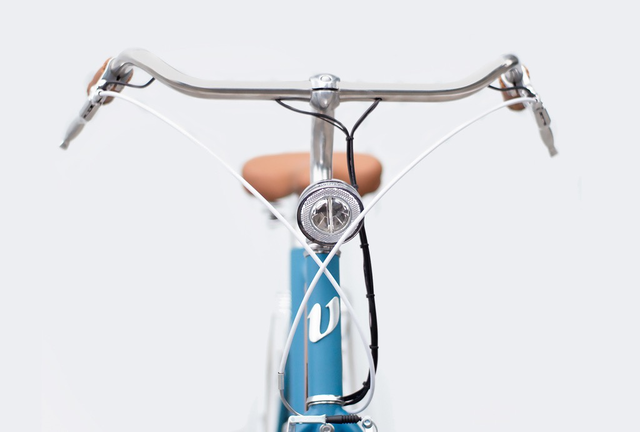
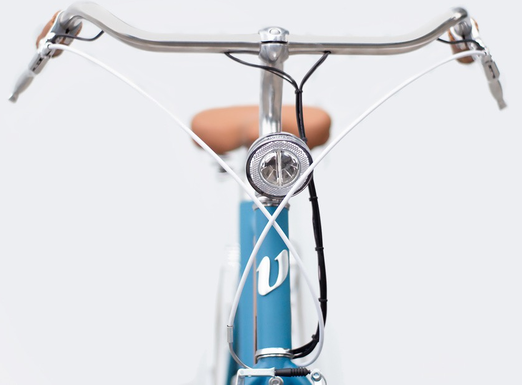
Better image sizing on home highlight.

Changed region(s): [[0.0, 0.0, 0.9808, 1.0]]

diff --git a/components/home/Highlight.js b/components/home/Highlight.js
@@ -23,11 +23,11 @@ const Highlight = () => {
           <Grid template='1fr 1fr'>
             <div className='detail'>
               <strong>até 40km</strong>
-              <div>Potencia do motor.</div>
+              <div>potência do motor</div>
             </div>
             <div className='detail'>
               <strong>350W</strong>
-              <div>Autonomia da bateria.</div>
+              <div>autonomia da bateria</div>
             </div>
           </Grid>
           <HideOnDesktop><br /><Button primary outline>Saiba +</Button></HideOnDesktop>
@@ -38,10 +38,10 @@ const Highlight = () => {
       </Grid>
       <style jsx>{`
         .teaser {
-          font-size: 1.5em;
+          font-size: 1.2em;
         }
         strong {
-          font-size: 1.5em;
+          font-size: 1.2em;
         }
         .detail {
           text-align: center;
@@ -52,6 +52,7 @@ const Highlight = () => {
         }
         .image {
           align-self: end;
+          overflow: hidden;
         }
       `}</style>
     </PaddedView>
